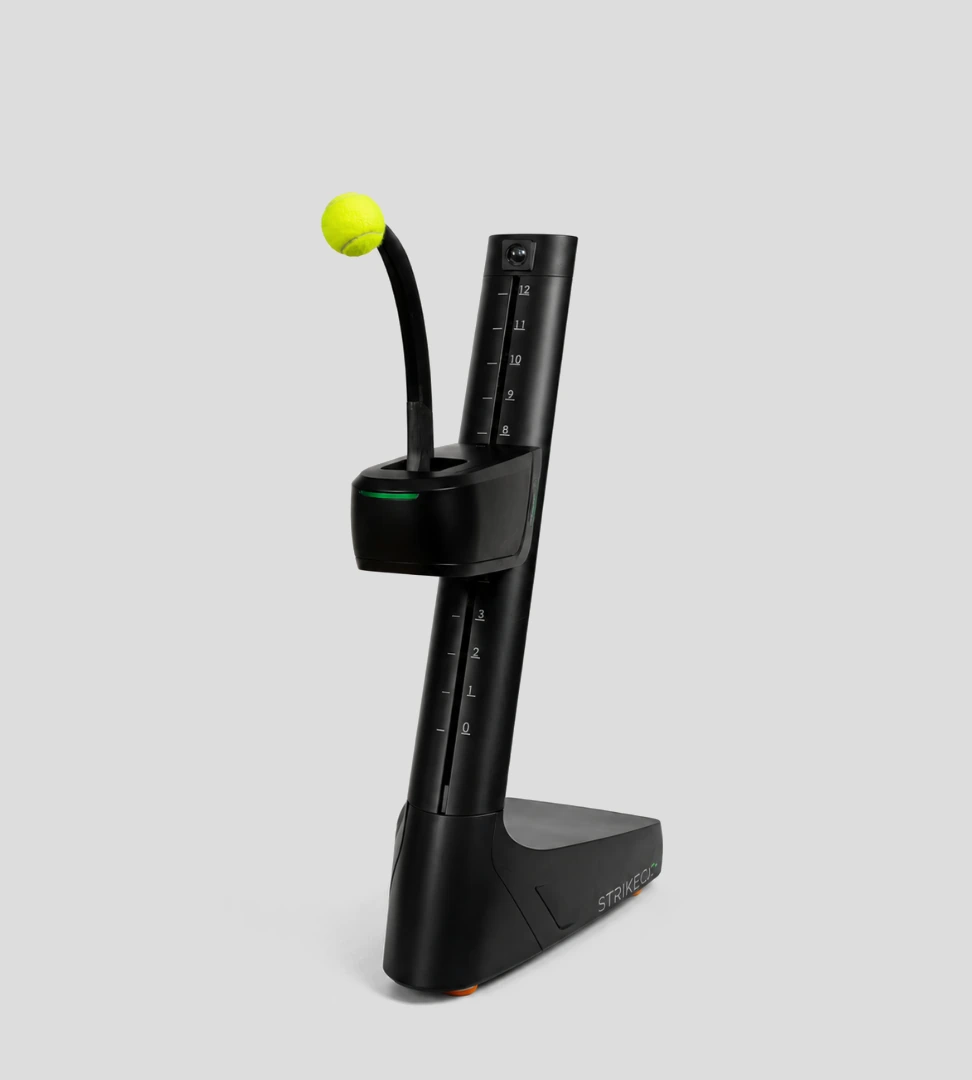
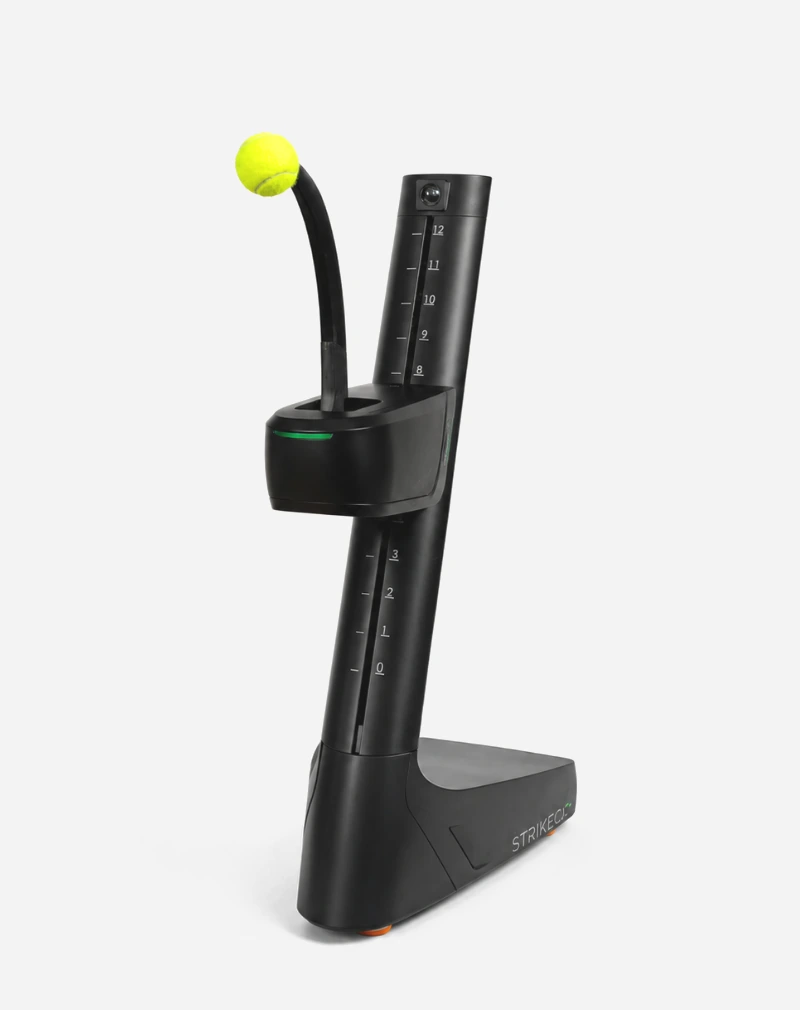
STRIKECO hero: seamless backdrop, larger product, fitted title
- Rebuild the hero product image on the text panel's #F3F3F3 so the hero
  reads as one surface, with the product larger and clear of the navbar
- Titles longer than 7 characters drop one size step so they fit the panel

Changed region(s): [[0.2812, 0.1228, 0.7188, 0.9515]]

diff --git a/src/App.jsx b/src/App.jsx
@@ -537,7 +537,7 @@ const ProjectDetail = ({ project, onBack, onNext }) => {
                                 <span className="text-sm font-bold uppercase tracking-widest text-gray-400 mb-2 block">{project.subtitle}</span>
                             )}
                             {/* Responsive Text Size */}
-                            <h1 className="text-6xl md:text-8xl xl:text-9xl font-black tracking-tighter mb-8 leading-[0.9]">
+                            <h1 className={`${project.title.length > 7 ? 'text-6xl md:text-7xl xl:text-8xl' : 'text-6xl md:text-8xl xl:text-9xl'} font-black tracking-tighter mb-8 leading-[0.9]`}>
                                 {project.title}
                             </h1>
                             <div className="w-16 h-1 bg-black mb-10"></div>

diff --git a/src/data/projects.js b/src/data/projects.js
@@ -122,7 +122,7 @@ export const PROJECTS = [
     thumb: 'Strikco-thumb.webp',
     heroImage: 'strikeco-hero.webp',
     heroFit: 'contain',
-    heroBg: '#dddddd',
+    heroBg: '#F3F3F3',
     film: {
       src: 'strikeco-film.mp4',
       mobileSrc: 'strikeco-film-mobile.mp4',
